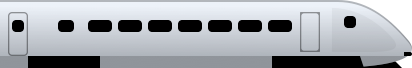
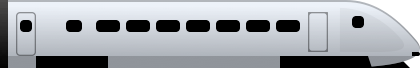
scroll width not static and safari fix

diff --git a/src/components/SeatSelectorWagon/SeatSelectorWagon.js b/src/components/SeatSelectorWagon/SeatSelectorWagon.js
@@ -11,19 +11,24 @@ import seatmapCartImg from '../../assets/seatmap/seatmap-cart.svg';
 import seatmapCartBistroImg from '../../assets/seatmap/seatmap-cart-bistro.png';
 
 const wagons = [
-  { type: 'locomotive', number: null, icon: false, selected: false, class: null, interior: seatmapLocomotiveImg, overview: overviewLocomotive, overviewWidth: '186px', width: '1000px' },
+  { type: 'locomotive', number: null, icon: false, selected: false, class: null, interior: seatmapLocomotiveImg, overview: overviewLocomotive, overviewWidth: 186, width: '1000px' },
   // { number: 1, icon: false, selected: false, class: '1 kl', interior: seatmapCartImg, overview: overviewWagon },
   // { number: 2, icon: false, selected: false, class: '1 kl', interior: seatmapCartImg, overview: overviewWagon },
   // { number: 3, icon: false, selected: false, class: false, interior: seatmapCartImg, overview: overviewWagon },
   // { number: 4, icon: false, selected: false, class: false, interior: seatmapCartImg, overview: overviewWagon },
   { type: 'bistro', number: 5, icon: bistroIcon, selected: false, class: false, interior: seatmapCartBistroImg, overview: overviewWagon, width: '1578px' },
-  { number: 6, icon: false, selected: false, class: false, interior: seatmapCartImg, overview: overviewEndWagon, overviewWidth: '206px', width: '1630px' },
+  { number: 6, icon: false, selected: false, class: false, interior: seatmapCartImg, overview: overviewEndWagon, overviewWidth: 208, width: '1630px' },
 ];
 
 const availableSeats = [
   { seat: 1, wagon: 5 },
-  { seat: 3, wagon: 6 },
-  { seat: 10, wagon: 6 },
+  { seat: 3, wagon: 5 },
+  { seat: 5, wagon: 5 },
+  { seat: 6, wagon: 5 },
+  { seat: 8, wagon: 5 },
+  { seat: 23, wagon: 5 },
+  { seat: 24, wagon: 5 },
+
 ];
 
 const standardSeatSpace = (46 + 14);
@@ -137,15 +142,17 @@ const wagonTypes = {
 };
 
 const OverviewWagon = (wagon) => {
-  const w = wagon.overviewWidth || '190px';
+  const w = `${(wagon.overviewWidth || 192)}px`;
   return (
     <div className="wagon" style={{ width: w }}>
-      <div className="wagon-heading">
-        <h3>Vagn {wagon.number}</h3>
-        { wagon.class && <span className="wagon-icon"><h3 className="wagon-class">{wagon.class}</h3></span> }
-        { wagon.icon && <span className="wagon-icon"><img src={wagon.icon} alt="seatIcon"></img></span> }
+      <div className="wagon-inner">
+        <div className="wagon-heading">
+          <h3>{wagon.number ? `Vagn ${wagon.number}` : ' '}</h3>
+          { wagon.class && <span className="wagon-icon"><h3 className="wagon-class">{wagon.class}</h3></span> }
+          { wagon.icon && <span className="wagon-icon"><img src={wagon.icon} alt="seatIcon"></img></span> }
+        </div>
+        <img className="overview-wagon-image" src={wagon.overview} alt="train" />
       </div>
-      <img className="overview-wagon-image" src={wagon.overview} alt="train" />
     </div>
   );
 };
@@ -183,27 +190,21 @@ const SeatMapWagon = (wagon) => {
       if (exceptionRow && exceptionRow[s.side]) {
         const exceptionSeat = exceptionRow[s.side];
         seat = { ...s, ...exceptionSeat };
-        console.log(seat)
       }
 
       if (seat.number === 'a') {
         if (seat.offset) {
           currentAbOffset = seat.offset;
         }
-
         totalAbOffset += currentAbOffset;
-
       } else if (seat.number === 'c') {
         if (seat.offset) {
           currentCdOffset = seat.offset;
         }
-
         totalCdOffset += currentCdOffset;
-
       }
 
       if (seat.noSeat) {
-        console.log("NO SEAT!")
         return null;
       }
       seatNumber += 1;
@@ -218,7 +219,7 @@ const SeatMapWagon = (wagon) => {
       const t = `${seat.top}px`;
       const c = seat.backward ? 'seatmap-seat-backwards' : ' ';
       const seatIcon = available ? seatAvailableImg : seatInactive;
-      const n = available ? seatNumber : seatNumber; //ta bort sen
+      const n = available ? seatNumber : '';
 
       return (
         <div className="seatmap-seat" style={{ top: t, left: l }}>
@@ -254,8 +255,12 @@ class seatSelectorWagon extends React.Component {
     const seatMapScroll = document.querySelector('.seatmap-scroll');
     const overviewScroll = document.querySelector('.overview-scroll');
     // add rezise listener
-    const overviewWidth = document.querySelector('.overview-container').getBoundingClientRect().width;
+    const overviewWidth = wagons.reduce((prev, wagon) => {
+      return prev + (wagon.overviewWidth || 192);
+    }, 0);
+
     const seatMapWidth = document.querySelector('.seatmap-container').getBoundingClientRect().width;
+
     const screenWidth = seatMapScroll.getBoundingClientRect().width;
     const targets = {
       leaderWidth: seatMapWidth,

diff --git a/src/components/SeatSelectorWagon/SeatSelectorWagon.css b/src/components/SeatSelectorWagon/SeatSelectorWagon.css
@@ -1,10 +1,10 @@
 
 .overview-scroll {
   position: relative;
-  overflow: auto;
   white-space: nowrap;
-  display: flex;
-  flex-direction: column;
+  overflow-x: scroll;
+  overflow-y: hidden;
+  -webkit-overflow-scrolling: touch;
 }
 
 .overview-scroll::-webkit-scrollbar {
@@ -13,10 +13,7 @@
 
 .overview-container {
   display: flex;
-  justify-content: space-between;
-  align-items: center;
   margin-bottom: 10px;
-  width: 582px;  /*  for all wagons: 1342px */
 }
 
 .overview-wagon-image {
@@ -28,6 +25,10 @@
 }
 
 .wagon {
+  display: inline-block;
+}
+
+.wagon-inner {
   display: flex;
   flex-direction: column;
   align-items: center;
@@ -66,15 +67,15 @@
 
 .seatmap-scroll {
   position: relative;
-  overflow: auto;
   white-space: nowrap;
+  overflow-x: scroll;
+  overflow-y: hidden;
+  -webkit-overflow-scrolling: touch;
 }
 
 .seatmap-scroll::-webkit-scrollbar {
   display: none;
 }
-
-
 
 .seatmap-container {
   display: inline-block;
@@ -103,9 +104,11 @@
 
 .seatmap-number {
   position: absolute;
+  font-size: 15px;
+  font-weight: bold;
   margin: 0;
   width: 46px;
-  top: 11px;
+  top: 12px;
   left: 0;
   text-align: center;
 }
